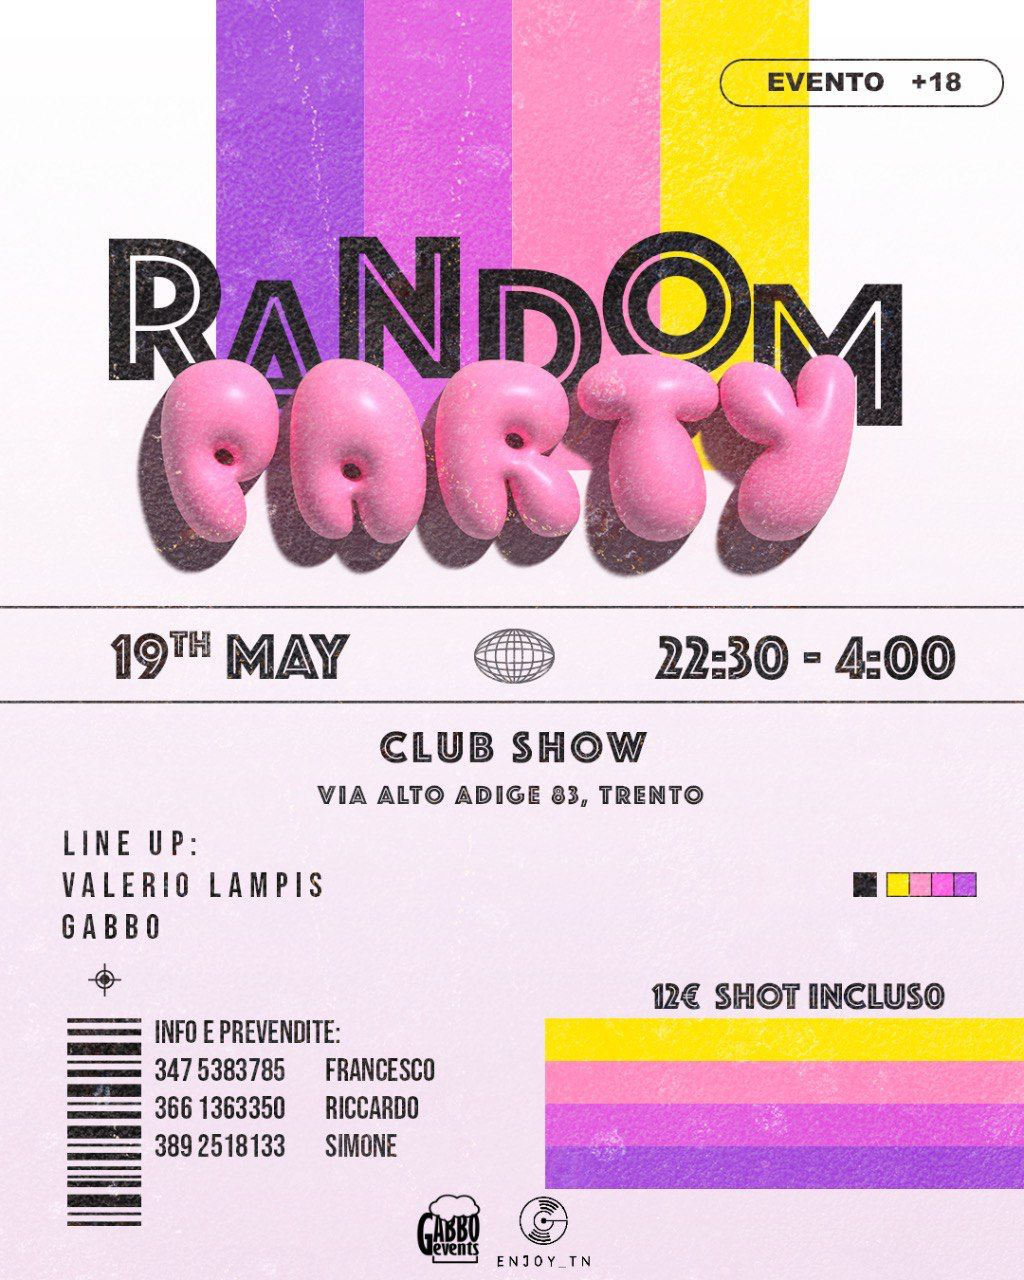
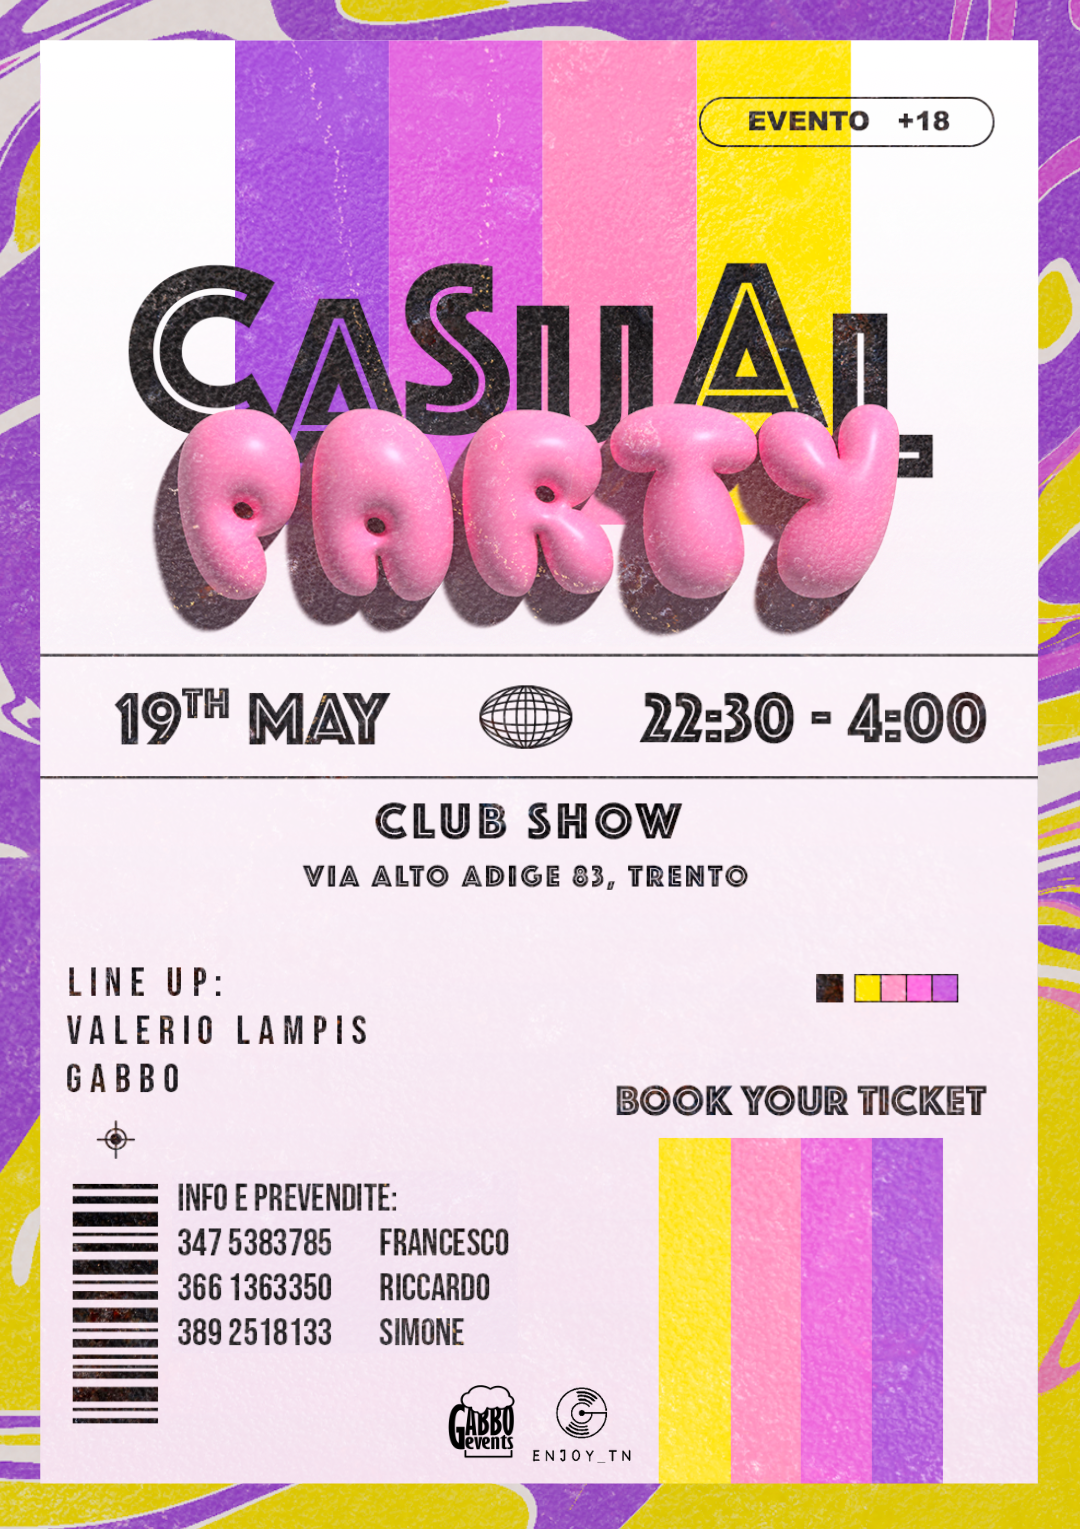
added content

diff --git a/functions/index.js b/functions/index.js
@@ -1,12 +1,13 @@
 const express = require('express');
 const cors = require('cors');
 const bodyParser = require('body-parser');
+
+const qrcode = require('qr-code-styling');
 const nodemailer = require('nodemailer');
-const crypto = require('crypto');
 
 const functions = require('firebase-functions');
-const { initializeApp, applicationDefault, cert } = require('firebase-admin/app');
-const { getFirestore, Timestamp, FieldValue } = require('firebase-admin/firestore');
+const admin = require('firebase-admin');
+admin.initializeApp();
 
 const app = express();
 app.use(cors({ origin: true }));
@@ -27,43 +28,69 @@ app.post('/', (req, res) => {
   const body = req.body;
   console.log(JSON.stringify(body));
 
-  console.log(body.event_type);
-
   if (body.event_type === 'CHECKOUT.ORDER.APPROVED') {
-    // const amount = body.purchase_units.amount.value;
-    const amount = 20;
-    // const description = body.purchase_units.description;
-    let numero = 1;
-    let tipo = 'ingresso';
+    const db = admin.firestore();
+    const amount = body.resource.purchase_units[0].amount.value;
+    const description = body.resource.purchase_units[0].description;
+    const descriptionParts = description.split(' ');
+    const type = descriptionParts[descriptionParts.length - 1];
+    const quantity = parseInt(descriptionParts[descriptionParts.length - 2]);
+    
+    const email = body.resource.payer.email_address;
+    const name = body.resource.payer.name;
+    const time = body.resource.update_time;
 
-    if (amount > 19) {
-      numero = 'XXX';
-      tipo = 'XXX';
-    }
-
-    // const email = body.resource.payer.email_address;
-    const email = "simonexsala@gmail.com"
-    const firstName = body.resource.payer.name.given_name;
-    const lastName = body.resource.payer.name.surname;
-
-    const db = getFirestore();
-    db.collection('evento').add({
-      nome: firstName,
-      cognome: lastName,
+    db.collection('evento').doc(body.id).set({
+      data: time,
       email: email,
-      numero: numero,
-      tipo: tipo,
-      totale: amount,
+      nome: name,
+      numero: quantity,
+      tipo: type,
+      totale: amount
     });
 
+    sendEmailWithQRCode(body.id, email, name.given_name, amount);
+  } else {
+    console.log(`Received event of type: ${body.event_type}`);
+    return res.status(200).send('Event processed successfully');
+  }
+});
+
+async function sendEmailWithQRCode(id, email, name, amount) {
+  try {
+    const qrCode = new qrcode({
+      width: 400,
+      height: 400,
+      data: id, 
+      image: "https://drive.google.com/file/d/1RI57_z0ouydGZRDEwdLkwuhM7XtusDBK/view?usp=sharing",
+      qrOptions: {
+        errorCorrectionLevel: 'M', 
+      },
+      imageOptions: {
+        margin: 2,
+      },
+      dotsOptions: {
+          color: "#E4256E",
+          type: "extra-rounded"
+      },
+    });
+
+    const imageBuffer = await qrCode.toBuffer();
     const mailOptions = {
-      from: 'gabboevents@gmail.com',
+      from: 'gabbo.dorigoni@gmail.com',
       to: email,
       subject: 'Prevendita Gabbo Events',
-      text: `Ciao ${firstName}, abbiamo ricevuto il tuo pagamento di €${amount} per`
+      text: `Ciao ${name}, abbiamo ricevuto il tuo pagamento di €${amount}.`,
+      attachments: [
+        {
+          filename: 'qrcode.png',
+          content: imageBuffer,
+        },
+      ],
     };
 
     transporter.sendMail(mailOptions, (error, info) => {
+      cleanup();
       if (error) {
         console.log(error);
         return res.status(500).send('Failed to send email');
@@ -72,10 +99,9 @@ app.post('/', (req, res) => {
         return res.status(200).send('Payment processed successfully');
       }
     });
-  } else {
-    console.log(`Received event of type: ${body.event_type}`);
-    return res.status(200).send('Event processed successfully');
+  } catch(error) {
+    console.error('Error sending email:', error);
   }
-});
+}
 
 exports.webhook = functions.https.onRequest(app);

diff --git a/src/components/Prevendite.vue b/src/components/Prevendite.vue
@@ -5,7 +5,7 @@
       v-model="soldOut"
       title="Prevendite sold out!"
       variant="light"
-      color="var(--background)"
+      color="#FFF"
       text="Ci dispiace, non sono più disponibili prevendite per questo evento."
       persistent
     >
@@ -24,7 +24,7 @@
       v-model="prevenditeOnline"
       title="Prevendite non disponibili!"
       variant="light"
-      color="var(--background)"
+      color="#FFF"
       text="Ci dispiace, le prevendite per questo evento non sono disponibili online."
       persistent
     >
@@ -110,7 +110,7 @@
               variant="light"
               icon="i-bx-heart"
               class="w-full"
-              @click="isPaypalShown = true; prompt = totale + '0€, per ' + ingressi + ' ingressi ' + opzione"
+              @click="isPaypalShown = true; prompt = totale + '0€ per ' + ingressi + ' ' + opzione"
             >
               Acquista
             </ABtn>
@@ -135,7 +135,7 @@
         >
           <div class="a-card-body">
             <div v-if="isPaypalLoading" class="mb-7 flex justify-center items-center">
-              <div class="spinner inline-block w-16 h-16" role="status" />
+              <div class="spinner inline-block w-8 h-8" role="status" />
             </div>
             <div id="paypal-container" />
             <ABtn
@@ -152,9 +152,9 @@
           v-model="isPaypalPaid"
           title="Grazie per aver acquistato"
           :subtitle="[this.dateMessage]"
-          text="Ricorda di controllare la mail per ulteriori informazioni."
+          text="Ricorda di controllare la mail per ulteriori informazioni. L'acquisto è andato a buon fine se hai ricevuto la notifica di pagamento da parte di Paypal."
           variant="light"
-          color="var(--background)"
+          color="#FFF"
           persistent
         >
           <div class="a-card-body">
@@ -185,11 +185,11 @@ export default {
 
       textConditions: '',
 
-      opzione: '',
+      opzione: 'ingresso',
       ingressi: 1,
       prezzo: this.$evento.drink,
       totale: this.prezzo + this.prezzo / 100 * 4,
-      prompt: this.totale + '0€, per ' + this.ingressi + ' ingressi',
+      prompt: this.totale + '0€ per ' + this.ingressi + ' ' + this.opzione,
       // prompt: this.totale + '0€, per ' + this.ingressi + ' ingressi ' + this.opzione,
       dateMessage: 'Ci vediamo il ' + this.$evento.data,
       link: this.$evento.link,
@@ -219,6 +219,10 @@ export default {
   },
   mounted: function () {
     const script = document.createElement("script");
+    // Test
+    // script.src = "https://www.paypal.com/sdk/js?currency=EUR&client-id=AfCfb7SWLyUbf0LwTzeqPyGVyMrlp_lrCryYrzYb_5AvMOzsXejI2npeIpFEkC4WhGGm1zm7XY1VAEtV&disable-funding=card";
+
+    // Production
     script.src = "https://www.paypal.com/sdk/js?currency=EUR&client-id=AYt8UxPRZS1k32KYmPOV142g7_hmJbEFpNmooZ73Ts79E6PWT4dNM94czFJzE-EJWF2iV3Ue1yaIRkKP&disable-funding=card";
     script.addEventListener("load", this.setLoaded);
     document.body.appendChild(script);
@@ -257,7 +261,7 @@ export default {
         createOrder: (data, actions) => {
           return actions.order.create({
             purchase_units: [{
-              description: "Gabbo Events Prevendita, " + this.ingressi + "x " + this.opzione,
+              description: "Gabbo Events Prevendita. " + this.ingressi + " " + this.opzione,
               amount: {
                 currency_code: "EUR",
                 value: this.totale,
@@ -281,7 +285,7 @@ export default {
 
 <style scoped>
 .spinner {
-  border: 5px solid #000;
+  border: 3px solid #000;
   border-bottom-color: transparent;
   border-radius: 50%;
   animation: rotation 1s linear infinite;

diff --git a/src/components/Navette.vue b/src/components/Navette.vue
@@ -4,7 +4,7 @@
       v-model="navetteNonAttive"
       title="Navette non disponibili!"
       variant="light"
-      color="var(--background)"
+      color="#FFF"
       text="Ci dispiace, le navette per questo evento non sono disponibili."
       persistent
     >
@@ -87,7 +87,7 @@
           v-model="dialogPrenotazione"
           title="Conferma prenotazione"
           variant="light"
-          color="var(--background)"
+          color="#FFF"
           :subtitle="[this.prompt]"
           persistent
         >

diff --git a/src/main.js b/src/main.js
@@ -10,8 +10,8 @@ import './style.css'
 
 const app = createApp(App)
 app.config.globalProperties.$evento = {
-  nome: 'Random Party',
-  data: 'Venerdi 19 Maggio',
+  nome: 'Casual Party',
+  data: 'Venerdì 19 Maggio',
   luogo: 'Club Show',
   indirizzo: 'Via Alto Adige 83, Trento',
   link: '',
